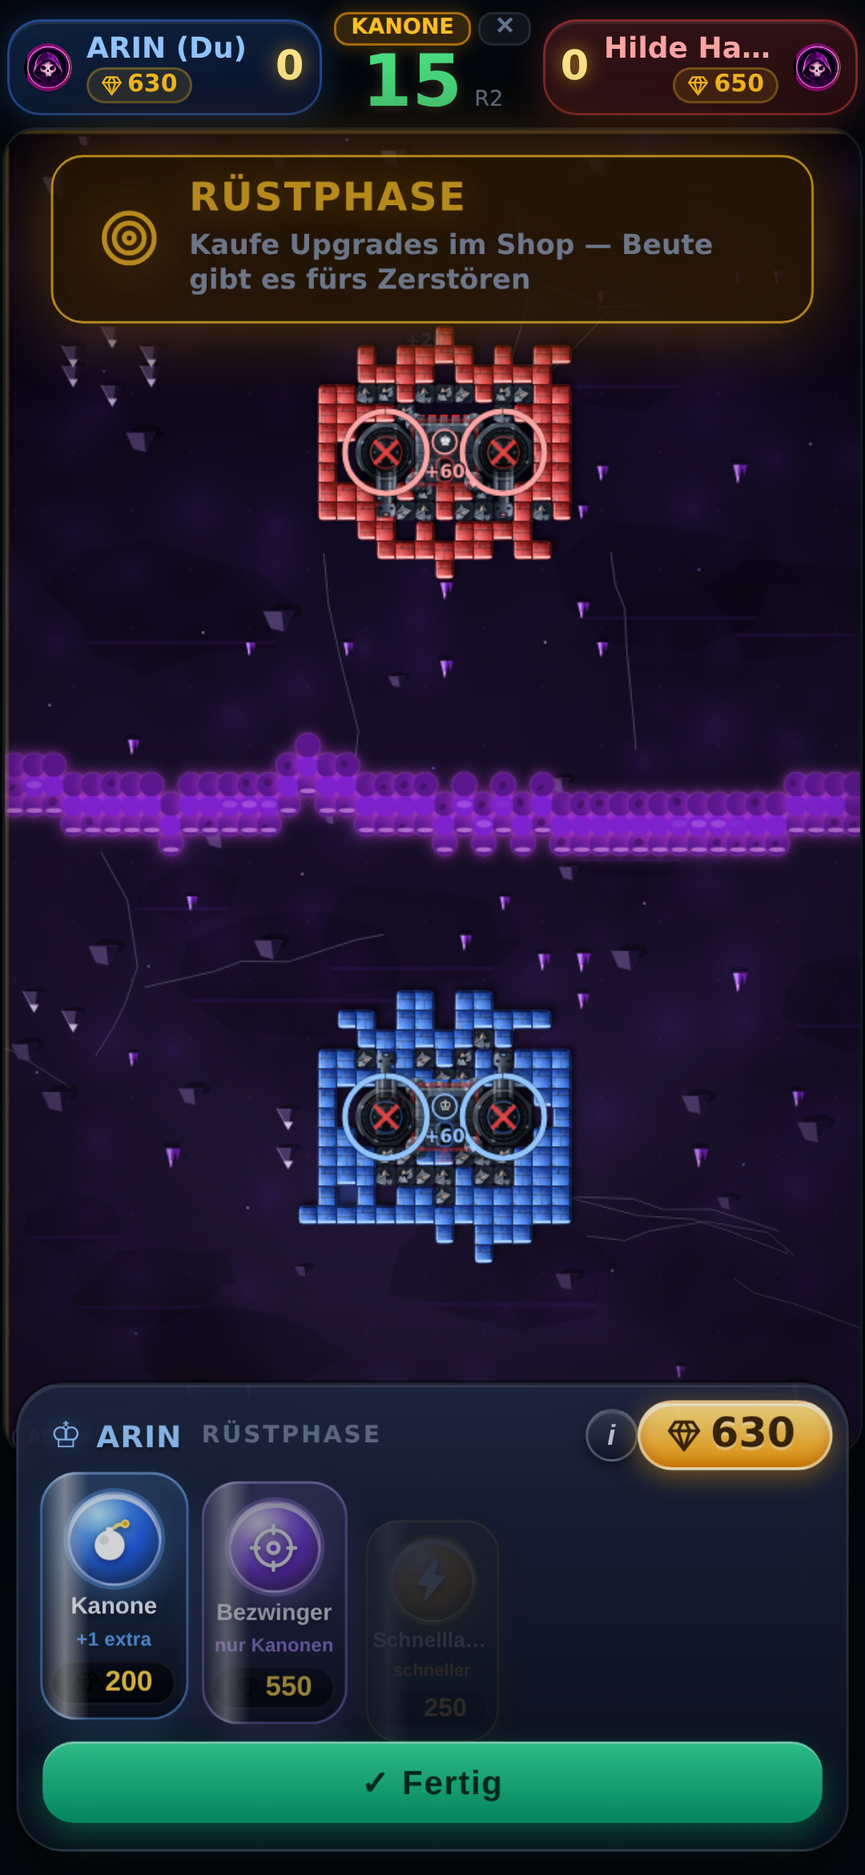
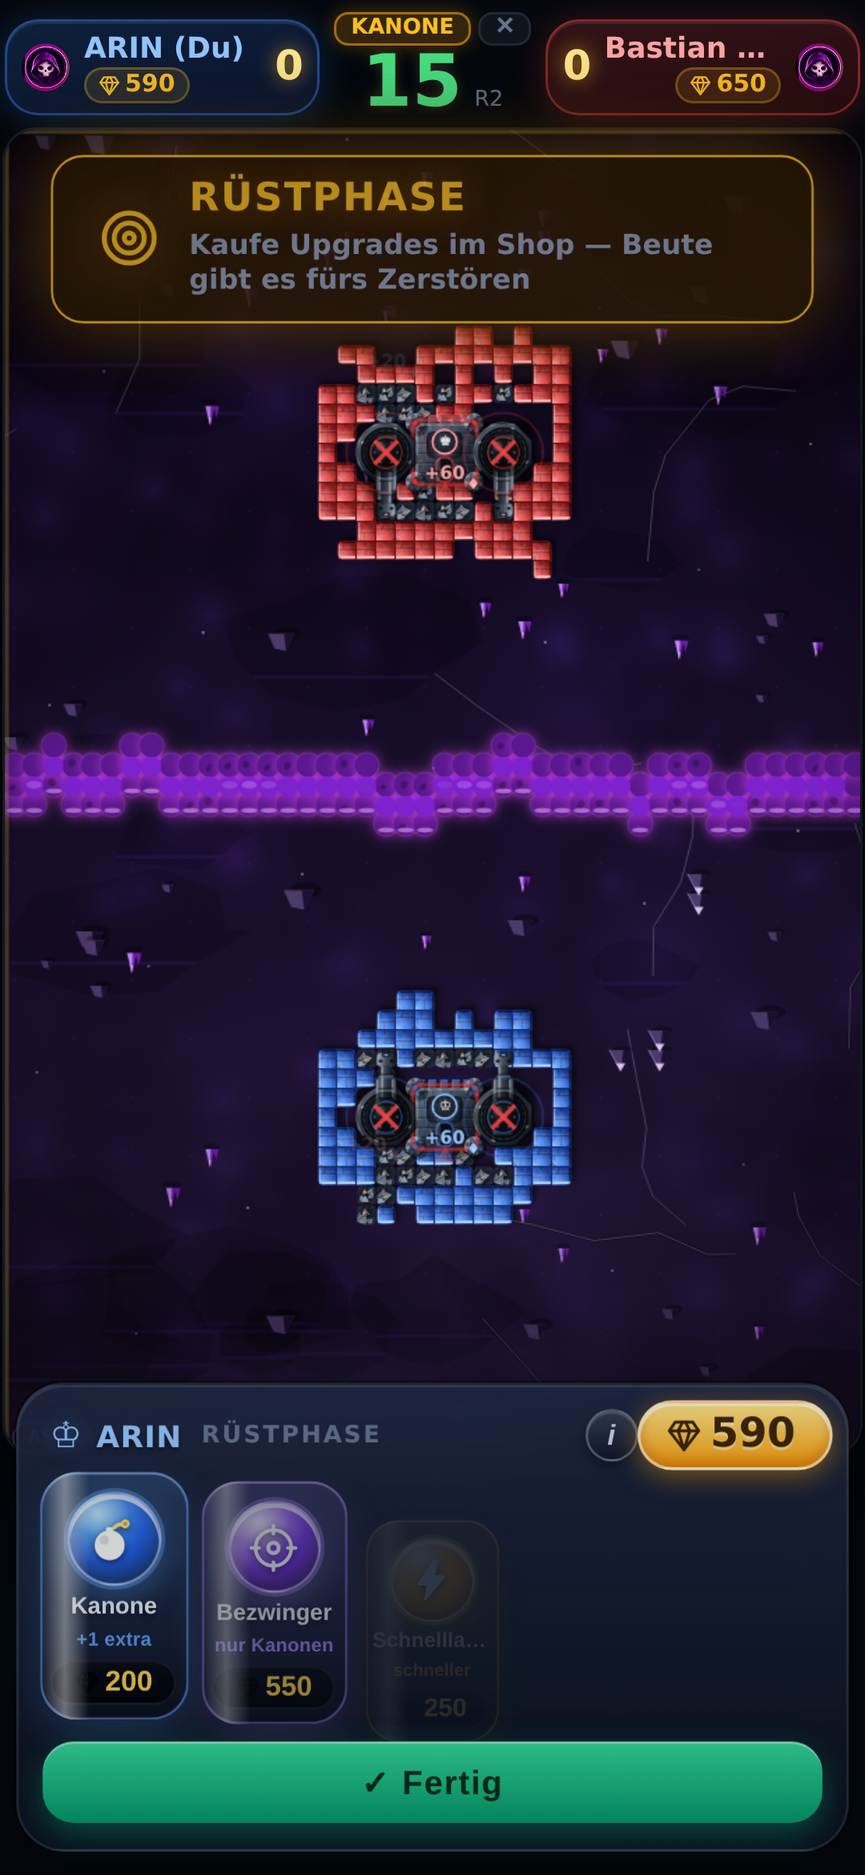
v3.88.0: Auf dem iPad war die Haelfte des Schirms Dekoration
v3.87.0 hat das iPad eingerichtet, das SPIELFELD aber gelassen, wie es war -
mit der Begruendung, es fuelle hochkant ohnehin schon 68 %. Die Zahl stimmte,
die Schlussfolgerung nicht: Sie sagt, wie gross das BRETT ist, nicht wie gut
der Schirm genutzt wird.

WAS DANEBENLAG

Kopfzeile und Unterleiste waren nur so breit wie das Brett - 782 von 1024 px.
Links und rechts standen je ~120 px schwarz. Neben dem Brett erzwingt das
Seitenverhaeltnis das; oben und unten erzwang es gar nichts.

Die Bauteil-Vorschau war auf dem iPad die kleinste im ganzen Geraetefeld.
pieceBox = barH - 38, nach unten bei 24 gedeckelt. Auf dem iPhone ist das
Brett BREITEN-begrenzt, unten faellt viel ab, die Leiste wird 94-150 hoch und
die Vorschau 57-76. Auf dem iPad ist das Brett HOEHEN-begrenzt und braucht den
Rest auf: Leiste 52, Vorschau 24. Das grosse Geraet zeigte ein Viertel dessen,
was das kleine zeigt.

Und die Formel log. Neben dem Bild stehen in der Leiste noch ihre eigene
Polsterung, die des Feldes, der Abstand und die Beschriftung - zusammen 42,
nicht 38. Der Kasten bekam vier Pixel mehr zugesagt, als da waren, und wurde
vom Flexlayout flachgedrueckt: gemessene 58 x 54 statt 58 x 58.

WAS JETZT GILT

  Kopfzeile iPad 12,9"       782 -> 1024 px breit
  Unterleiste iPad 12,9"     782x52 -> 1024x122
  Bauteil-Vorschau iPad      58x54 gequetscht -> 76x76
  Bauteil-Vorschau iPhone    76x76 (unveraendert)
  Brett iPad 12,9"           782x1209 (68 %) -> 726x1122 (58 %)
[…]

diff --git a/src/game/app.js b/src/game/app.js
@@ -362,7 +362,7 @@ window.StackSiegeApp = function StackSiegeApp() {
   // `top` = gemessene Hoehe der Kopfzeile (bei 3 Spielern zwei Reihen). Alle
   // ueberlagerten Meldungen haengen sich daran statt an eine geratene Zahl —
   // vorher stand 52 an sieben Stellen, und bei drei Spielern stimmte keine davon.
-  const [viewSize, setViewSize] = useState({ w: W, h: H, bar: 52, top: 52 });
+  const [viewSize, setViewSize] = useState({ w: W, h: H, bar: 52, top: 52, voll: W, tablett: false });
   const [warn, setWarn] = useState(null);
   const warnTimer = useRef(null);
   const [phaseBanner, setPhaseBanner] = useState(null);
@@ -2472,25 +2472,55 @@ window.StackSiegeApp = function StackSiegeApp() {
   }
   useEffect(() => {
     function fit() {
-      const topH = (scoreBarRef.current ? scoreBarRef.current.offsetHeight : 0) + (row3Ref.current ? row3Ref.current.offsetHeight + 4 : 0);
+      // getBoundingClientRect statt offsetHeight (v3.88.0): Die Kopfzeile
+      // steht auf einem Tablett unter einer Zoomstufe, und `offsetHeight`
+      // meldet dann die Hoehe VOR dem Zoom — gemessen 50 gegen gezeichnete 80.
+      // Mit dem falschen Wert reserviert `fit` zu wenig, das Brett faellt zu
+      // gross aus und die Unterleiste rutscht aus dem Bild. Der Kasten aus
+      // getBoundingClientRect ist der gezeichnete.
+      const hoeheVon = (el) => el ? el.getBoundingClientRect().height : 0;
+      const topH = Math.ceil(hoeheVon(scoreBarRef.current) + (row3Ref.current ? hoeheVon(row3Ref.current) + 4 : 0));
       // v3.69.0: Die Unterleiste wird NICHT mehr gemessen, sondern berechnet.
       // Vorher ging ihre Isthöhe in `chrome` ein — dadurch konnte sie nie
       // wachsen, ohne das Brett zu verkleinern (Rückkopplung), und die
       // Resthöhe blieb als schwarzer Balken liegen. Jetzt reserviert `fit` nur
       // die MINDESThöhe und gibt den kompletten Rest an die Leiste weiter.
-      const BAR_MIN = 52;
+      // v3.88.0: Auf einem Tablett bekommt die Unterleiste mehr als das
+      // Mindestmass. Vorher bekam sie dort GENAU das Mindestmass: Das Brett
+      // ist auf dem iPad hoehenbegrenzt und braucht den ganzen Rest auf, also
+      // blieben 52 px — und `pieceBox` (barH − 38, gedeckelt bei 24 nach
+      // unten) fiel auf seinen KLEINSTEN Wert. Gemessen: Bauteil-Vorschau
+      // 24 px auf dem iPad gegen 57 px auf dem iPhone. Das groessere Geraet
+      // hatte die kleinere Vorschau. Die 96 kosten das Brett ~4 % Kantenlaenge
+      // und geben der Vorschau das Dreifache.
+      //
       // v3.85.0: NICHT window.innerHeight — das ist der ganze Bildschirm
       // einschliesslich der Sicherheitsbereiche. Gerechnet werden muss mit dem
       // Platz, den die Huelle wirklich hat; sonst faellt das Brett zu gross aus
       // und die Unterleiste bekommt eine Hoehe, die es nicht gibt. Auf dem
       // iPhone waren das 93 px zu viel — genau die fehlten unten.
       const raum = nutzRaum();
+      const tablett = raum.w >= 700 && raum.h >= 900;
+      // Anteilig statt fest: Ein iPad mini hat 1089 nutzbare Punkte, ein
+      // 12,9-Zoll-iPad 1322. Ein fester Wert waere auf dem kleinen zu viel
+      // und auf dem grossen zu wenig. 9,2 % liegt zwischen den 7 %, die die
+      // Leiste vorher auf dem iPad bekam, und den 17 %, die sie auf einem
+      // iPhone von selbst bekommt (dort ist das Brett BREITEN-begrenzt, also
+      // faellt unten viel ab — auf dem iPad faellt gar nichts ab).
+      const BAR_MIN = tablett ? Math.min(132, Math.max(96, Math.round(raum.h * 0.092))) : 52;
       const vw = raum.w - 2;
       const vh = raum.h - topH - BAR_MIN - 8;
       const scale = Math.min(vw / W, vh / H, 1.4);
       const w = Math.floor(W * scale), h = Math.floor(H * scale);
       const bar = Math.max(BAR_MIN, Math.min(150, raum.h - topH - h - 8));
-      setViewSize((prev) => (prev.w === w && prev.h === h && prev.bar === bar && prev.top === topH) ? prev : { w, h, bar, top: topH });
+      // `voll` ist die volle nutzbare Breite — das Brett behaelt sein
+      // Seitenverhaeltnis, Kopfzeile, Buehne und Unterleiste spannen darueber
+      // hinaus bis an den Rand. Sonst stehen auf einem iPad links und rechts
+      // je ~120 px schwarz, und der Schirm sieht aus wie ein vergroessertes
+      // Telefonbild.
+      const voll = raum.w;
+      setViewSize((prev) => (prev.w === w && prev.h === h && prev.bar === bar && prev.top === topH && prev.voll === voll && prev.tablett === tablett)
+        ? prev : { w, h, bar, top: topH, voll, tablett });
       clearTimeout(fitTimerRef.current);
       fitTimerRef.current = setTimeout(() => {
         if (canvasRef.current) canvasRect.current = canvasRef.current.getBoundingClientRect();
@@ -7340,7 +7370,7 @@ window.StackSiegeApp = function StackSiegeApp() {
       try { localStorage.setItem('fortress_perf', perfAn.current ? '1' : '0'); } catch (e) {}
       setPerfSichtbar(perfAn.current);
     }
-  }, style: { marginTop: 18, fontSize: 12, color: "#64748b", letterSpacing: "0.08em", fontWeight: 600, cursor: "default" } }, "Stack & Siege \xB7 Version 3.87.0"), // **Rechtslinks nur im Browser.** In der App sind Impressum und
+  }, style: { marginTop: 18, fontSize: 12, color: "#64748b", letterSpacing: "0.08em", fontWeight: 600, cursor: "default" } }, "Stack & Siege \xB7 Version 3.88.0"), // **Rechtslinks nur im Browser.** In der App sind Impressum und
     // Nutzungsbedingungen auf dem Startbildschirm fehl am Platz: Dort steht
     // kein Anbieter zur Auswahl, und Apple verlangt die Datenschutzadresse in
     // den Store-Angaben, nicht in der App. Geprueft wird ueber die EINE
@@ -9036,8 +9066,39 @@ window.StackSiegeApp = function StackSiegeApp() {
   // skaliert nach Breite), also füllt sie den Platz jetzt mit echtem Inhalt.
   const PANEL_COL = { 1: { a: "96,165,250", d: "#60a5fa" }, 2: { a: "248,113,113", d: "#f87171" }, 3: { a: "52,211,153", d: "#34d399" } };
   const barH = viewSize.bar || 52;
+  // Die volle nutzbare Breite. Kopfzeile, Buehne und Unterleiste spannen
+  // darueber; nur das Brett selbst bleibt bei seinem Seitenverhaeltnis.
+  const vollB = viewSize.voll || viewSize.w;
+  // Die Kopfzeile auf einem Tablett (v3.88.0). Ueber die volle Breite gezogen
+  // sah sie gedehnt aus: zwei fast leere Farbbalken mit Telefonschrift darin.
+  // 1,3 statt der vollen Breitenrelation (1024/393 = 2,6) — ein Punkt ist auf
+  // einem iPad ohnehin rund ein Viertel groesser als auf einem iPhone; die
+  // volle Relation ergaebe dreifache Schrift. Die Breite wird durch die
+  // Zoomstufe geteilt, sonst laeuft die Leiste um denselben Faktor ueber.
+  const hudZ = viewSize.tablett ? 1.3 : 1;
+  const hudBreite = vollB / hudZ;
+  // Die Buehne (v3.88.0): 616:952 ist hoch, ein iPad ist es weniger — links
+  // und rechts bleiben je ~120 px uebrig, und die waren bisher leer. Jetzt
+  // gehoeren sie zur Buehne: ein weicher Schein hinter dem Brett, nach aussen
+  // auslaufend. Das kostet KEIN Pixel pro Bild, es ist ein Verlauf auf einem
+  // Kasten — die Zeichenschleife merkt davon nichts. Auf dem Telefon, wo
+  // nichts uebrig bleibt, faellt der Verlauf ganz weg.
+  const buehneStil = {
+    width: vollB, height: viewSize.h, flexShrink: 0,
+    display: "flex", alignItems: "center", justifyContent: "center",
+    position: "relative",
+    background: vollB - viewSize.w > 24
+      ? "radial-gradient(ellipse 58% 76% at 50% 46%, rgba(56,189,248,0.10) 0%, rgba(37,99,235,0.045) 44%, rgba(2,6,15,0) 74%)"
+      : void 0
+  };
   const hudH = viewSize.top || 52;
-  const pieceBox = Math.max(24, Math.min(76, barH - 38));
+  // −42, nicht −38 (v3.88.0): Die 38 waren zu knapp gerechnet. Neben dem Bild
+  // stehen in der Leiste noch ihre eigene Polsterung, die des Feldes, der
+  // Abstand und die Beschriftung — zusammen 42. Mit 38 versprach die Formel
+  // ein Quadrat, das nicht hineinpasste, und der Kasten wurde vom Flexlayout
+  // flachgedrueckt: auf dem iPad gemessene 58 × 54 statt 58 × 58. Jetzt sagt
+  // die Zahl die Wahrheit, und `flexShrink: 0` am Kasten haelt sie.
+  const pieceBox = Math.max(24, Math.min(76, barH - 42));
   // Vorher drei fast identische Blöcke (nur Farbe + Spiegelung unterschiedlich);
   // eine gemeinsame Funktion hält sie garantiert in Deckung.
   function piecePanel(pl) {
@@ -9063,7 +9124,7 @@ window.StackSiegeApp = function StackSiegeApp() {
       // Punktgröße wächst jetzt mit dem freien Platz (vorher fix 4–7 px).
       const BOX = pieceBox;
       const dot = Math.max(5, Math.min(16, Math.floor(BOX / Math.max(maxR + 1, maxC + 1)) - 2));
-      return React.createElement("div", { style: { width: BOX, height: BOX, display: "flex", alignItems: "center", justifyContent: "center" } },
+      return React.createElement("div", { style: { width: BOX, height: BOX, flexShrink: 0, display: "flex", alignItems: "center", justifyContent: "center" } },
         React.createElement("div", { style: { display: "grid", gridTemplateColumns: `repeat(${maxC + 1}, ${dot}px)`, gridTemplateRows: `repeat(${maxR + 1}, ${dot}px)`, gap: 2 } },
           Array.from({ length: (maxR + 1) * (maxC + 1) }).map((_, i) => {
             const r = Math.floor(i / (maxC + 1)), c = i % (maxC + 1);
@@ -9147,7 +9208,8 @@ window.StackSiegeApp = function StackSiegeApp() {
     for (let r = 0; r < g.length; r++) for (let c = 0; c < g[r].length; c++) if (g[r][c] !== 0) n++;
     return n;
   })()), /* @__PURE__ */ React.createElement("div", { style: { color: "#fde68a" } }, "screen=", screenRef.current, " phase=", phase_r.current), /* @__PURE__ */ React.createElement("div", { style: { color: "#86efac", wordBreak: "break-all" } }, dbg.current.lastInfo), dbg.current.lastErr && /* @__PURE__ */ React.createElement("div", { style: { color: "#fca5a5", wordBreak: "break-all" } }, "ERR: ", dbg.current.lastErr), /* @__PURE__ */ React.createElement("div", { style: { color: "#475569", marginTop: 2 } }, "(tippen zum Schlie\xDFen)")), /* @__PURE__ */ React.createElement("div", { ref: scoreBarRef, style: {
-    width: viewSize.w,
+    width: hudBreite,
+    zoom: hudZ === 1 ? void 0 : hudZ,
     display: "flex",
     alignItems: "center",
     justifyContent: "space-between",
@@ -9195,7 +9257,7 @@ window.StackSiegeApp = function StackSiegeApp() {
     backdropFilter: "blur(12px)",
     boxShadow: "0 2px 16px rgba(239,68,68,0.25), inset 0 1px 0 rgba(255,255,255,0.08)",
     justifyContent: "flex-end"
-  } }, /* @__PURE__ */ React.createElement("span", { style: { fontSize: 17, fontWeight: 900, color: "#fde68a", flexShrink: 0, textShadow: "0 0 8px rgba(251,191,36,0.7)" } }, scores[2]), /* @__PURE__ */ React.createElement("div", { style: { flex: "1 1 auto", minWidth: 0, display: "flex", flexDirection: "column", alignItems: "flex-end", gap: 1 } }, (urgentPlayers[2] ? closeWarnSpan("right") : /* @__PURE__ */ React.createElement("span", { style: { fontSize: 12, color: "#fca5a5", fontWeight: 700, overflow: "hidden", textOverflow: "ellipsis", whiteSpace: "nowrap", width: "100%", maxWidth: "100%", textAlign: "right" } }, online.current || botMode.current ? playerInfo.current[2].name + (myRole.current === 2 ? t('youSuffix') : "") : "P2")), /* @__PURE__ */ React.createElement("span", { style: { fontSize: 10, fontWeight: 800, color: "#fbbf24", flexShrink: 0, background: "rgba(251,191,36,0.12)", border: "1px solid rgba(251,191,36,0.3)", borderRadius: 8, padding: "1px 5px", minWidth: 42, justifyContent: "center", fontVariantNumeric: "tabular-nums", display: "inline-flex", alignItems: "center", gap: 2 } }, React.createElement(Icon, { name: "gem", size: 9, color: "#fbbf24" }), String(scrap.current[2] || 0))), /* @__PURE__ */ React.createElement(WappenAvatar, { id: online.current || botMode.current ? playerInfo.current[2].wappen : "roboter", size: 20 }))), numPlayers === 3 && /* @__PURE__ */ React.createElement("div", { ref: row3Ref, style: { width: viewSize.w, display: "flex", justifyContent: "center", marginTop: 4 } }, /* @__PURE__ */ React.createElement("div", { style: {
+  } }, /* @__PURE__ */ React.createElement("span", { style: { fontSize: 17, fontWeight: 900, color: "#fde68a", flexShrink: 0, textShadow: "0 0 8px rgba(251,191,36,0.7)" } }, scores[2]), /* @__PURE__ */ React.createElement("div", { style: { flex: "1 1 auto", minWidth: 0, display: "flex", flexDirection: "column", alignItems: "flex-end", gap: 1 } }, (urgentPlayers[2] ? closeWarnSpan("right") : /* @__PURE__ */ React.createElement("span", { style: { fontSize: 12, color: "#fca5a5", fontWeight: 700, overflow: "hidden", textOverflow: "ellipsis", whiteSpace: "nowrap", width: "100%", maxWidth: "100%", textAlign: "right" } }, online.current || botMode.current ? playerInfo.current[2].name + (myRole.current === 2 ? t('youSuffix') : "") : "P2")), /* @__PURE__ */ React.createElement("span", { style: { fontSize: 10, fontWeight: 800, color: "#fbbf24", flexShrink: 0, background: "rgba(251,191,36,0.12)", border: "1px solid rgba(251,191,36,0.3)", borderRadius: 8, padding: "1px 5px", minWidth: 42, justifyContent: "center", fontVariantNumeric: "tabular-nums", display: "inline-flex", alignItems: "center", gap: 2 } }, React.createElement(Icon, { name: "gem", size: 9, color: "#fbbf24" }), String(scrap.current[2] || 0))), /* @__PURE__ */ React.createElement(WappenAvatar, { id: online.current || botMode.current ? playerInfo.current[2].wappen : "roboter", size: 20 }))), numPlayers === 3 && /* @__PURE__ */ React.createElement("div", { ref: row3Ref, style: { width: hudBreite, zoom: hudZ === 1 ? void 0 : hudZ, display: "flex", justifyContent: "center", marginTop: 4 } }, /* @__PURE__ */ React.createElement("div", { style: {
     background: "linear-gradient(160deg, rgba(16,185,129,0.20), rgba(6,78,59,0.30))",
     border: "1px solid rgba(16,185,129,0.45)",
     borderRadius: 14,    padding: "2px 10px",    display: "flex",
@@ -9635,7 +9697,7 @@ window.StackSiegeApp = function StackSiegeApp() {
       // breite haengen: bei left:50% ohne right reicht der Platz eines fest
       // positionierten Kastens nur noch bis zum rechten Rand. Der Text brach
       // deshalb auf drei Zeilen um und deckte ein Drittel des Bretts zu.
-      width: "max-content", background: pb.bg, border: `1.5px solid ${pb.color}`, borderRadius: 14, padding: "9px 20px", boxShadow: `0 0 34px ${pb.glow}, 0 6px 24px rgba(0,0,0,0.6)`, maxWidth: "min(92vw,430px)", backdropFilter: "blur(12px)", display: "flex", alignItems: "center", gap: 13 } }, /* @__PURE__ */ React.createElement("div", { style: { color: pb.color, display: "flex", flexShrink: 0, filter: `drop-shadow(0 0 12px ${pb.glow})` } }, /* @__PURE__ */ React.createElement(Icon, { name: { setup: "crown", build: "shield", shoot: "flame", cannon: "target" }[phaseBanner] || "shield", size: 26 })), /* @__PURE__ */ React.createElement("div", { style: { minWidth: 0 } }, /* @__PURE__ */ React.createElement("div", { style: { fontSize: 17, fontWeight: 900, color: pb.color, letterSpacing: "0.04em", textShadow: `0 0 16px ${pb.glow}`, lineHeight: 1.15 } }, t(pbTitleKey)), /* @__PURE__ */ React.createElement("div", { style: { fontSize: 12, color: "#94a3b8", marginTop: 2, fontWeight: 600, lineHeight: 1.3 } }, t(pbSubKey)))); })(), /* @__PURE__ */ React.createElement("div", { style: {
+      width: "max-content", background: pb.bg, border: `1.5px solid ${pb.color}`, borderRadius: 14, padding: "9px 20px", boxShadow: `0 0 34px ${pb.glow}, 0 6px 24px rgba(0,0,0,0.6)`, maxWidth: "min(92vw,430px)", backdropFilter: "blur(12px)", display: "flex", alignItems: "center", gap: 13 } }, /* @__PURE__ */ React.createElement("div", { style: { color: pb.color, display: "flex", flexShrink: 0, filter: `drop-shadow(0 0 12px ${pb.glow})` } }, /* @__PURE__ */ React.createElement(Icon, { name: { setup: "crown", build: "shield", shoot: "flame", cannon: "target" }[phaseBanner] || "shield", size: 26 })), /* @__PURE__ */ React.createElement("div", { style: { minWidth: 0 } }, /* @__PURE__ */ React.createElement("div", { style: { fontSize: 17, fontWeight: 900, color: pb.color, letterSpacing: "0.04em", textShadow: `0 0 16px ${pb.glow}`, lineHeight: 1.15 } }, t(pbTitleKey)), /* @__PURE__ */ React.createElement("div", { style: { fontSize: 12, color: "#94a3b8", marginTop: 2, fontWeight: 600, lineHeight: 1.3 } }, t(pbSubKey)))); })(), /* @__PURE__ */ React.createElement("div", { style: buehneStil }, /* @__PURE__ */ React.createElement("div", { style: {
     width: viewSize.w,
     height: viewSize.h,
     border: buildUrgencyOpen ? "1px solid rgba(239,68,68,0.5)" : "1px solid rgba(255,255,255,0.07)",
@@ -9662,8 +9724,8 @@ window.StackSiegeApp = function StackSiegeApp() {
         cursor: phase === "build" || phase === "cannon" || phase === "setup" ? "crosshair" : "default"
       }
     }
-  )), /* @__PURE__ */ React.createElement("div", { ref: bottomBarRef, style: {
-    width: viewSize.w,
+  ))), /* @__PURE__ */ React.createElement("div", { ref: bottomBarRef, style: {
+    width: vollB,
     height: barH,
     display: "flex",
     alignItems: "stretch",

diff --git a/index.html b/index.html
@@ -18,7 +18,7 @@
   <link rel="apple-touch-icon" href="icon-192.png"/>
   <link rel="icon" type="image/png" sizes="192x192" href="icon-192.png"/>
   <link rel="icon" type="image/png" sizes="512x512" href="icon-512.png"/>
-  <title>Stack &amp; Siege v3.87.0</title>  <style>    /* iOS-Lupen-Fix (v3.32.1): user-select auf html/body reicht Safari
+  <title>Stack &amp; Siege v3.88.0</title>  <style>    /* iOS-Lupen-Fix (v3.32.1): user-select auf html/body reicht Safari
     nicht — die Text-Lupe erschien beim Ziehen über HUD-/Shop-Texte. Global
     deaktivieren + Long-Press-Callout & Tap-Highlight aus; Eingabefelder
     behalten Textauswahl (Regel darunter). */

diff --git a/FORTRESS-SPEC.md b/FORTRESS-SPEC.md
@@ -1,4 +1,4 @@
-# Stack & Siege — Spezifikation & Regelwerk (aktuell: v3.87.0)> Diese Datei ist die **verbindliche Prüfgrundlage** für alle Änderungen am Spiel.
+# Stack & Siege — Spezifikation & Regelwerk (aktuell: v3.88.0)> Diese Datei ist die **verbindliche Prüfgrundlage** für alle Änderungen am Spiel.
 > Vor jeder Code-Änderung wird gegen diese Spec geprüft. Wenn eine Änderung
 > einer Regel widerspricht, wird das gemeldet bevor etwas umgesetzt wird.
 > Bei bewussten Regeländerungen wird diese Datei mit aktualisiert.
@@ -5830,3 +5830,91 @@ Store-Bilder fuer `ipad-13` und `ipad-12.9` neu aufgenommen — die alten zeigte
 den Zustand vorher.
 
 Tests gruen (Unit 70/70, E2E 384/384, Typen 0 Fehler).
+
+---
+
+## v3.88.0 — Auf dem iPad war die Haelfte des Schirms Dekoration
+
+v3.87.0 hat das iPad eingerichtet: Querformat gesperrt, Menue und Ergebnis
+vergroessert. Das SPIELFELD blieb, wie es war — mit der Begruendung, es fuelle
+hochkant ohnehin schon 68 %. Diese Zahl stimmte, die Schlussfolgerung nicht:
+Sie sagt, wie gross das BRETT ist, nicht wie gut der Schirm genutzt wird.
+Gemessen wurde jetzt beides.
+
+### Was danebenlag
+
+**Kopfzeile und Unterleiste waren nur so breit wie das Brett.** 782 von
+1024 px. Links und rechts standen je ~120 px schwarz — nicht nur neben dem
+Brett, wo das Seitenverhaeltnis es erzwingt, sondern auch oben und unten, wo
+gar nichts es erzwang.
+
+**Die Bauteil-Vorschau war auf dem iPad die kleinste im ganzen Geraetefeld.**
+`pieceBox = barH − 38`, nach unten bei 24 gedeckelt. Auf dem iPhone ist das
+Brett BREITEN-begrenzt, unten faellt viel Platz ab, die Leiste wird 94–150 px
+hoch und die Vorschau 57–76 px. Auf dem iPad ist das Brett HOEHEN-begrenzt und
+braucht den Rest auf: Leiste 52, Vorschau 24. Das grosse Geraet zeigte ein
+Viertel dessen, was das kleine zeigt.
+
+**Und die Formel log.** Neben dem Bild stehen in der Leiste noch ihre eigene
+Polsterung, die des Feldes, der Abstand und die Beschriftung — zusammen 42,
+nicht 38. Der Kasten bekam also vier Pixel mehr zugesagt, als vorhanden waren,
+und wurde vom Flexlayout flachgedrueckt: gemessene 58 × 54 statt 58 × 58.
+
+### Was jetzt gilt
+
+| | vorher | nachher |
+|---|---|---|
+| Kopfzeile iPad 12,9" | 782 px breit | **1024 px** |
+| Unterleiste iPad 12,9" | 782 × 52 | **1024 × 122** |
+| Bauteil-Vorschau iPad | 58 × 54 (gequetscht) | **76 × 76** |
+| Bauteil-Vorschau iPhone | 76 × 76 | 76 × 76 |
+| Brett iPad 12,9" | 782 × 1209 (68 %) | 726 × 1122 (58 %) |
+| Alles auf dem iPhone | — | **unveraendert** |
+
+Die Leiste bekommt auf einem Tablett 9,2 % der nutzbaren Hoehe statt des
+Mindestmasses — anteilig, weil ein iPad mini 1089 und ein 12,9-Zoll-iPad 1322
+Punkte hat und ein fester Wert auf einem von beiden falsch waere.
+
+**Das Brett wird dabei kleiner, und das ist der Handel.** 68 % → 58 % Flaeche,
+gut 7 % Kantenlaenge. Dafuer hat die Leiste eine Vorschau, die man ohne
+Hinsehen trifft. Wer die 68 % behalten will, behaelt eine 24-px-Vorschau auf
+einem 12,9-Zoll-Schirm; das ist kein Tausch, den man machen sollte.
+
+**Mehr als 81 % kann das Brett auf einem iPad ohnehin nie fuellen** — 616:952
+ist hoch, ein iPad ist 3:4, und diese 81 % gaebe es nur ohne jede Kopfzeile und
+ohne jede Leiste. Die verbleibenden Streifen NEBEN dem Brett sind seither keine
+Leere mehr, sondern Buehne: ein weicher Schein hinter dem Brett, nach aussen
+auslaufend. Das kostet kein Pixel pro Bild — es ist ein Verlauf auf einem
+Kasten, die Zeichenschleife merkt davon nichts.
+
+### Die Kopfzeile steht unter einer Zoomstufe
+
+Ueber die volle Breite gezogen sah sie gedehnt aus: zwei fast leere Farbbalken
+mit Telefonschrift darin. Sie steht auf einem Tablett deshalb unter `zoom: 1.3`
+— nicht unter der vollen Breitenrelation 1024/393 = 2,6: Ein Punkt ist auf
+einem iPad ohnehin rund ein Viertel groesser als auf einem iPhone, die volle
+Relation ergaebe dreifache Schrift.
+
+Damit das aufgeht, musste `fit()` umgestellt werden. **`offsetHeight` meldet
+unter einer Zoomstufe die Hoehe VOR dem Zoom** — im Versuch gemessene 50 gegen
+gezeichnete 80. Mit dem falschen Wert reserviert `fit` zu wenig, das Brett
+faellt zu gross aus und die Unterleiste rutscht aus dem Bild; also genau der
+Fehler von v3.84.0/v3.85.0, nur mit neuer Ursache. `getBoundingClientRect()`
+liefert den gezeichneten Kasten und wird jetzt benutzt. Die Breite der
+Kopfzeile wird durch die Zoomstufe geteilt, sonst laeuft sie um denselben
+Faktor ueber.
+
+### Geprueft
+
+`suiteIPad` waechst auf 17 Pruefungen: alle drei Reihen spannen ueber die volle
+Breite, die Unterleiste bleibt im Bild, das Spielfeld steht unter KEINER
+Zoomstufe (eine eigene Pruefung — dort waere sie der beschriebene Fehler), und
+die Bauteil-Vorschau auf dem iPad ist mindestens so gross wie auf dem iPhone.
+Verglichen wird gemessen gegen gemessen, nicht gegen einen geratenen Zahlenwert.
+
+Ein Fehler auf dem Weg dorthin gehoert in die Akte: `const BAR_MIN = raum.w …`
+stand eine Zeile ueber `const raum = …`. Das Bundle warf beim ersten Rendern
+„Cannot access 'k' before initialization", die Seite blieb leer. Kein Test
+schlug an, weil das Bauen gelingt — gefunden hat es der Blick auf die Seite.
+
+Tests gruen (Unit 70/70, E2E 386/386, Typen 0 Fehler).
